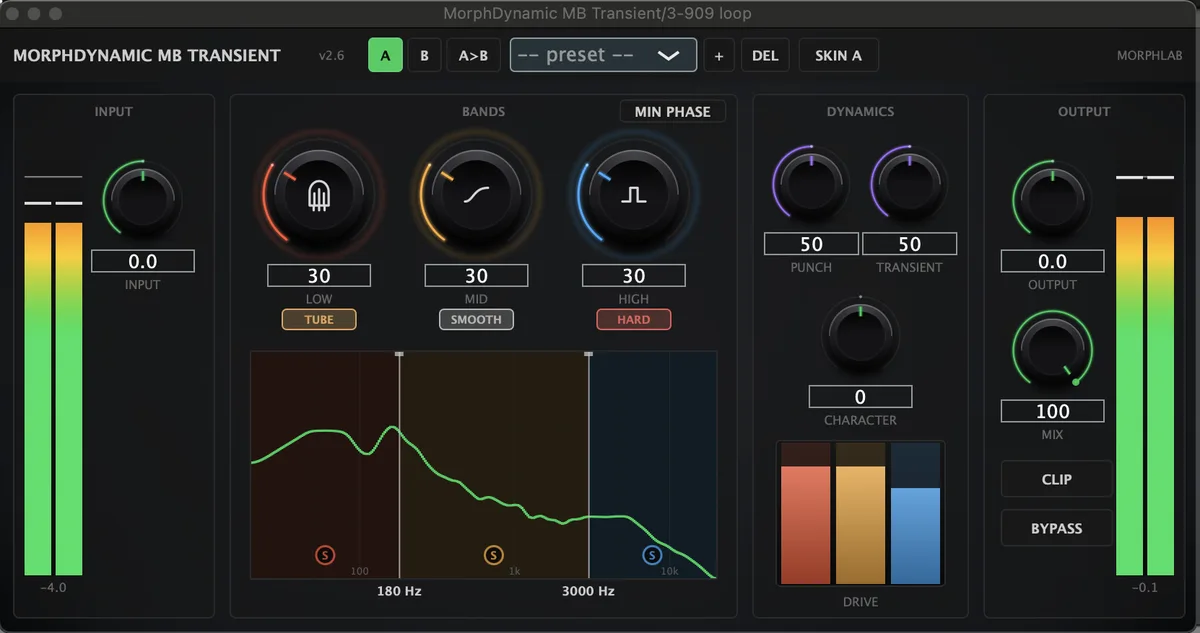
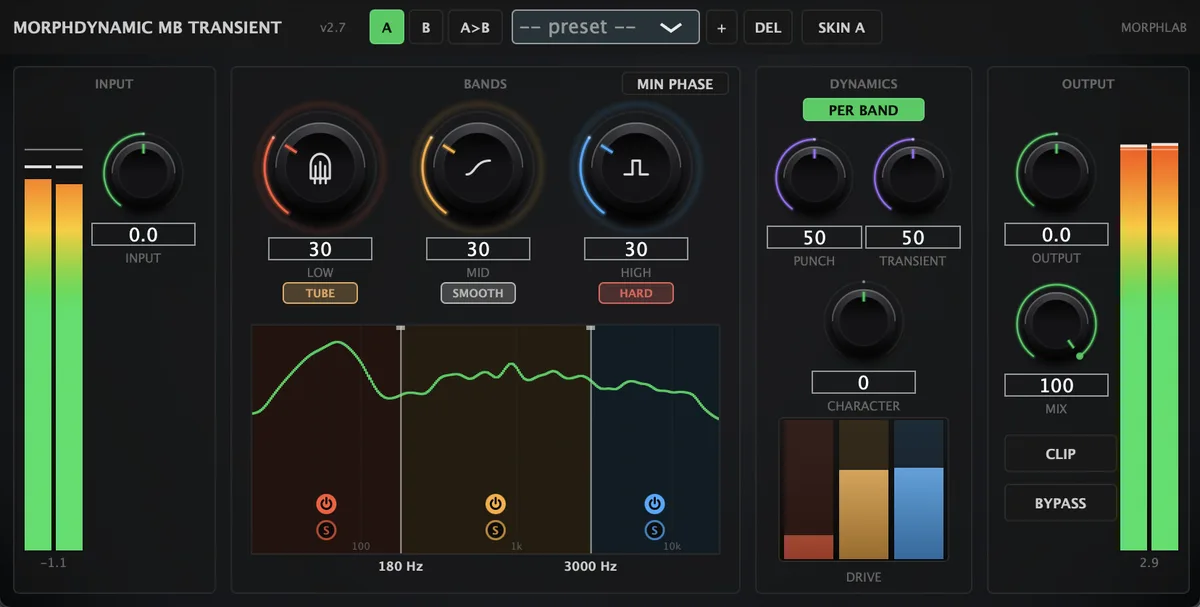
MorphDynamic MB Transient 2.7: version, new screenshot and card text
Claude-Session: https://claude.ai/code/session_012T5NivuRZYtdJqKCVntmKB

diff --git a/index.html b/index.html
@@ -263,9 +263,9 @@ const PRODUCTS = [
   { id:"morphtransient", file:"MorphTransient", name:"MorphTransient", version:"2.4", group:"plugins",
     tag:"Transient designer",
     text:"Two knobs, attack and sustain, driven by level-independent dual-envelope detection — no threshold to chase, no pumping. Parallel mix and a live shape meter. Zero latency." },
-  { id:"morphdynamic", file:"MorphDynamic-MB-Transient", name:"MorphDynamic MB Transient", version:"2.6", group:"plugins",
+  { id:"morphdynamic", file:"MorphDynamic-MB-Transient", name:"MorphDynamic MB Transient", version:"2.7", group:"plugins",
     tag:"Multiband transient saturator",
-    text:"Punch and harmonic colour on the attacks only, band by band, while the sustain stays clean. Built for drum buses, percussion and mixes, with per-band solo on the spectrum." },
+    text:"Brings the transient forward, in your face, without degrading the signal. Each band reacts only to its own hits while the sustain stays clean. Five saturation types including Transformer, per-band power and solo on the spectrum." },
   { id:"morphase", file:"MorPhase", name:"MorPhase", version:"2.1", group:"plugins",
     tag:"All-pass phase tool",
     text:"Rotates phase with first- or second-order all-pass filters without touching the magnitude. Align kicks, layers and multi-mic recordings, and watch the result on a beat-locked waveform." },

diff --git a/CLAUDE.md b/CLAUDE.md
@@ -29,7 +29,7 @@ README.md                       short publishing notes
 | morphclipper | MorphClipper | 3.2 | plugins |
 | morphlator | MorPhlator | 2.2 | plugins |
 | morphtransient | MorphTransient | 2.4 | plugins |
-| morphdynamic | MorphDynamic MB Transient | 2.6 | plugins |
+| morphdynamic | MorphDynamic MB Transient | 2.7 | plugins |
 | morphase | MorPhase | 2.1 | plugins |
 | morphalign | MorPhalign | 3.1 | plugins |
 | rx92 | RX92 | 2.1 | plugins |
